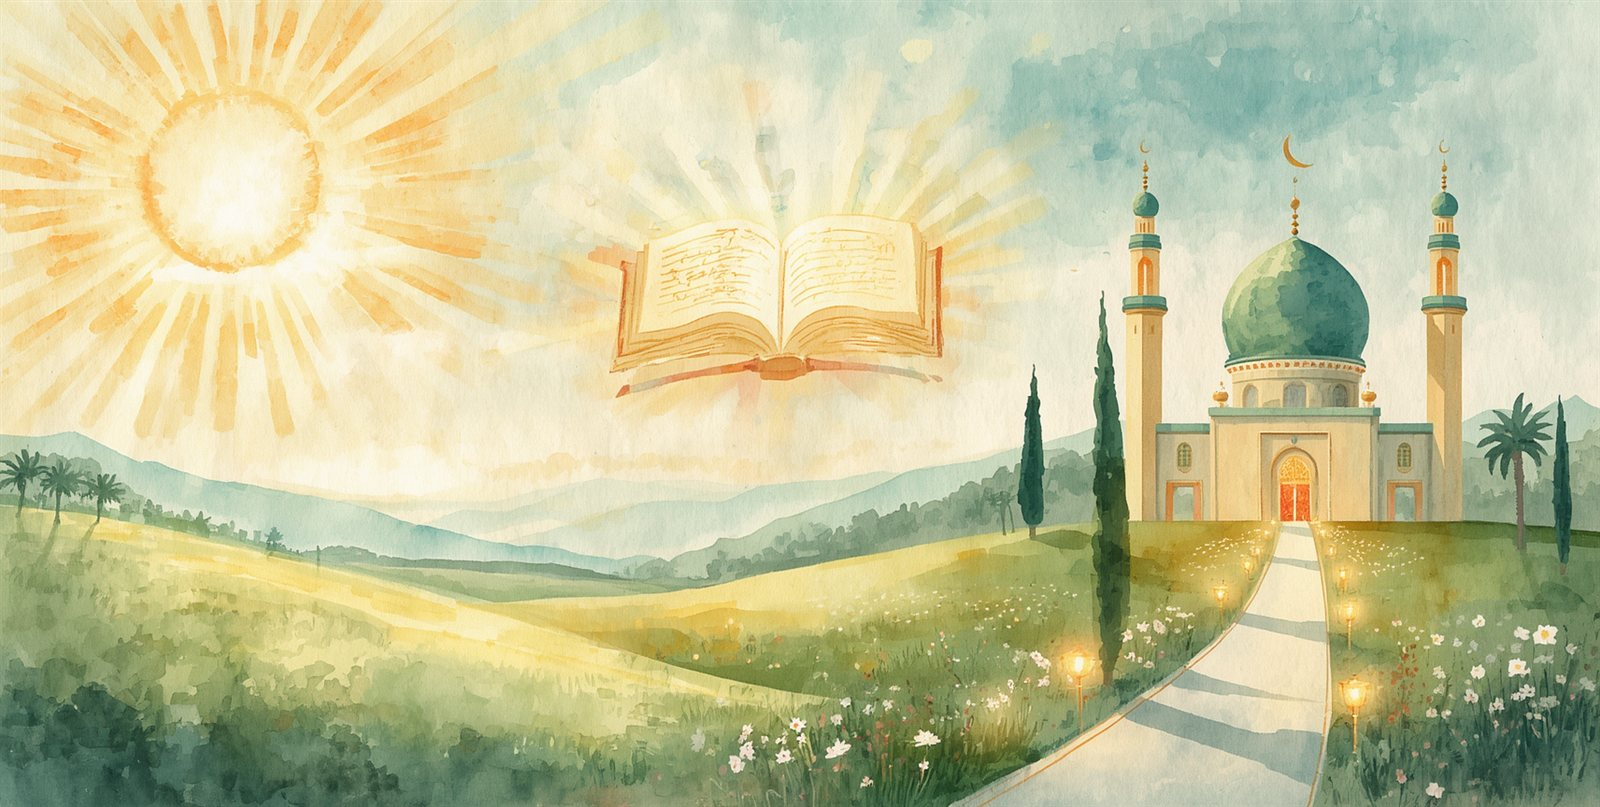
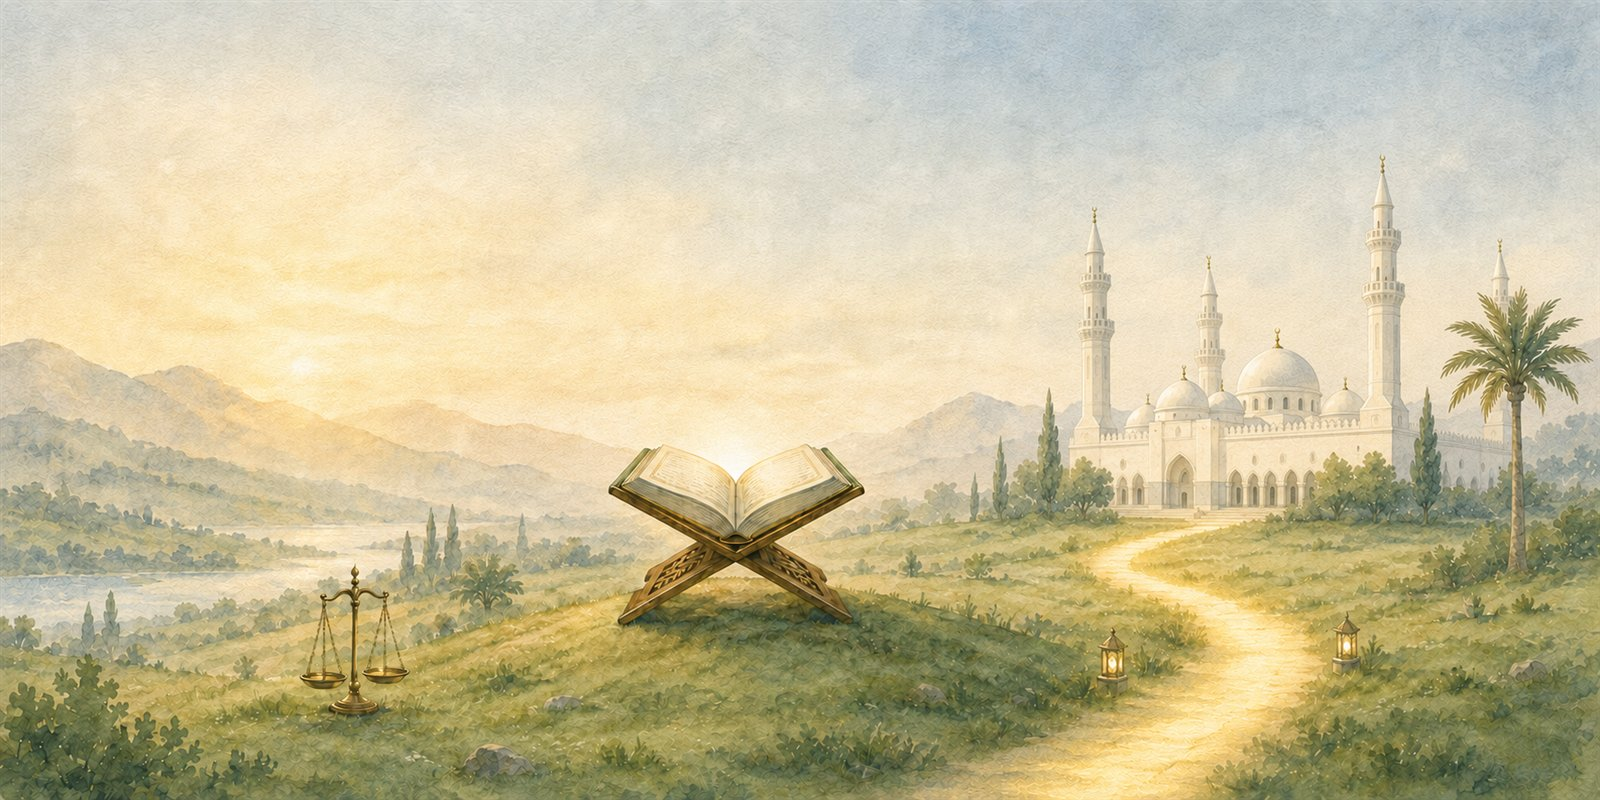
تحديث «أنا مؤمن» بلوحة مائية أنقى (مصحف على رحل + ميزان + مسجد أبيض وطريق فوانيس) + كسر كاش v2

diff --git a/index.html b/index.html
@@ -309,7 +309,7 @@
     <div class="ug-head"><h3>وحدات الفصل الدراسي الأول</h3><span>٩ وحدات</span></div>
     <section class="units">
       <div class="unit upcoming"><span class="soon-badge">قريبًا</span><div class="unit-cap" style="background:url('units-art/unit-makhlouq.jpg?v=5') center center/cover no-repeat!important;aspect-ratio:2/1;height:auto!important" role="img" aria-label="وحدة أنا مخلوق كرمني الله"></div><div class="unit-body"><h3>أنا مخلوق كرمني الله</h3><span class="unit-open">قيد الإعداد</span></div></div>
-      <div class="unit upcoming"><span class="soon-badge">قريبًا</span><div class="unit-cap" style="background:url('units-art/unit-mumin.jpg') center center/cover no-repeat!important;aspect-ratio:2/1;height:auto!important" role="img" aria-label="وحدة أنا مؤمن"></div><div class="unit-body"><h3>أنا مؤمن</h3><span class="unit-open">قيد الإعداد</span></div></div>
+      <div class="unit upcoming"><span class="soon-badge">قريبًا</span><div class="unit-cap" style="background:url('units-art/unit-mumin.jpg?v=2') center center/cover no-repeat!important;aspect-ratio:2/1;height:auto!important" role="img" aria-label="وحدة أنا مؤمن"></div><div class="unit-body"><h3>أنا مؤمن</h3><span class="unit-open">قيد الإعداد</span></div></div>
       <div class="unit upcoming"><span class="soon-badge">قريبًا</span><div class="unit-cap" style="background:url('units-art/unit-kitab-allah.jpg?v=2') center center/cover no-repeat!important;aspect-ratio:2/1;height:auto!important" role="img" aria-label="وحدة أنا مع كتاب الله"></div><div class="unit-body"><h3>أنا مع كتاب الله</h3><span class="unit-open">قيد الإعداد</span></div></div>
       <div class="unit upcoming"><span class="soon-badge">قريبًا</span><div class="unit-cap" style="background:url('units-art/unit-nabi-muhammad.jpg') center center/cover no-repeat!important;aspect-ratio:2/1;height:auto!important" role="img" aria-label="وحدة نبيي محمد صلى الله عليه وسلم"></div><div class="unit-body"><h3>نبيي محمد ﷺ</h3><span class="unit-open">قيد الإعداد</span></div></div>
       <div class="unit upcoming"><span class="soon-badge">قريبًا</span><div class="unit-cap" style="background:url('units-art/unit-family.jpg') center center/cover no-repeat!important;aspect-ratio:2/1;height:auto!important" role="img" aria-label="وحدة العائلة"></div><div class="unit-body"><h3>العائلة</h3><span class="unit-open">قيد الإعداد</span></div></div>
